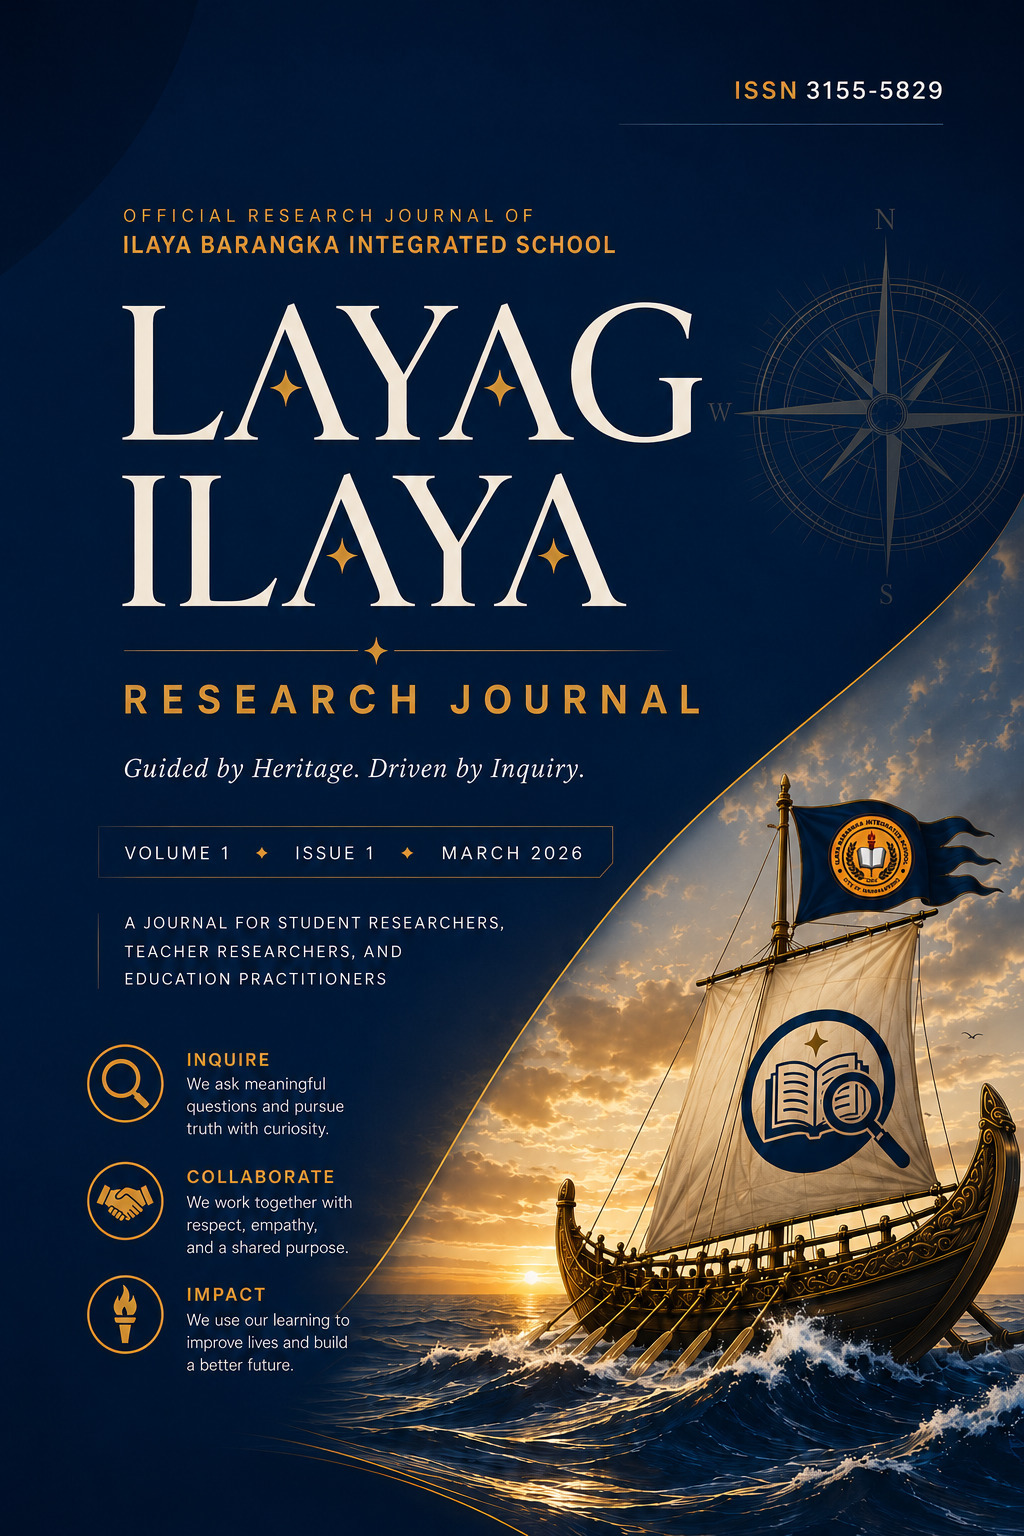
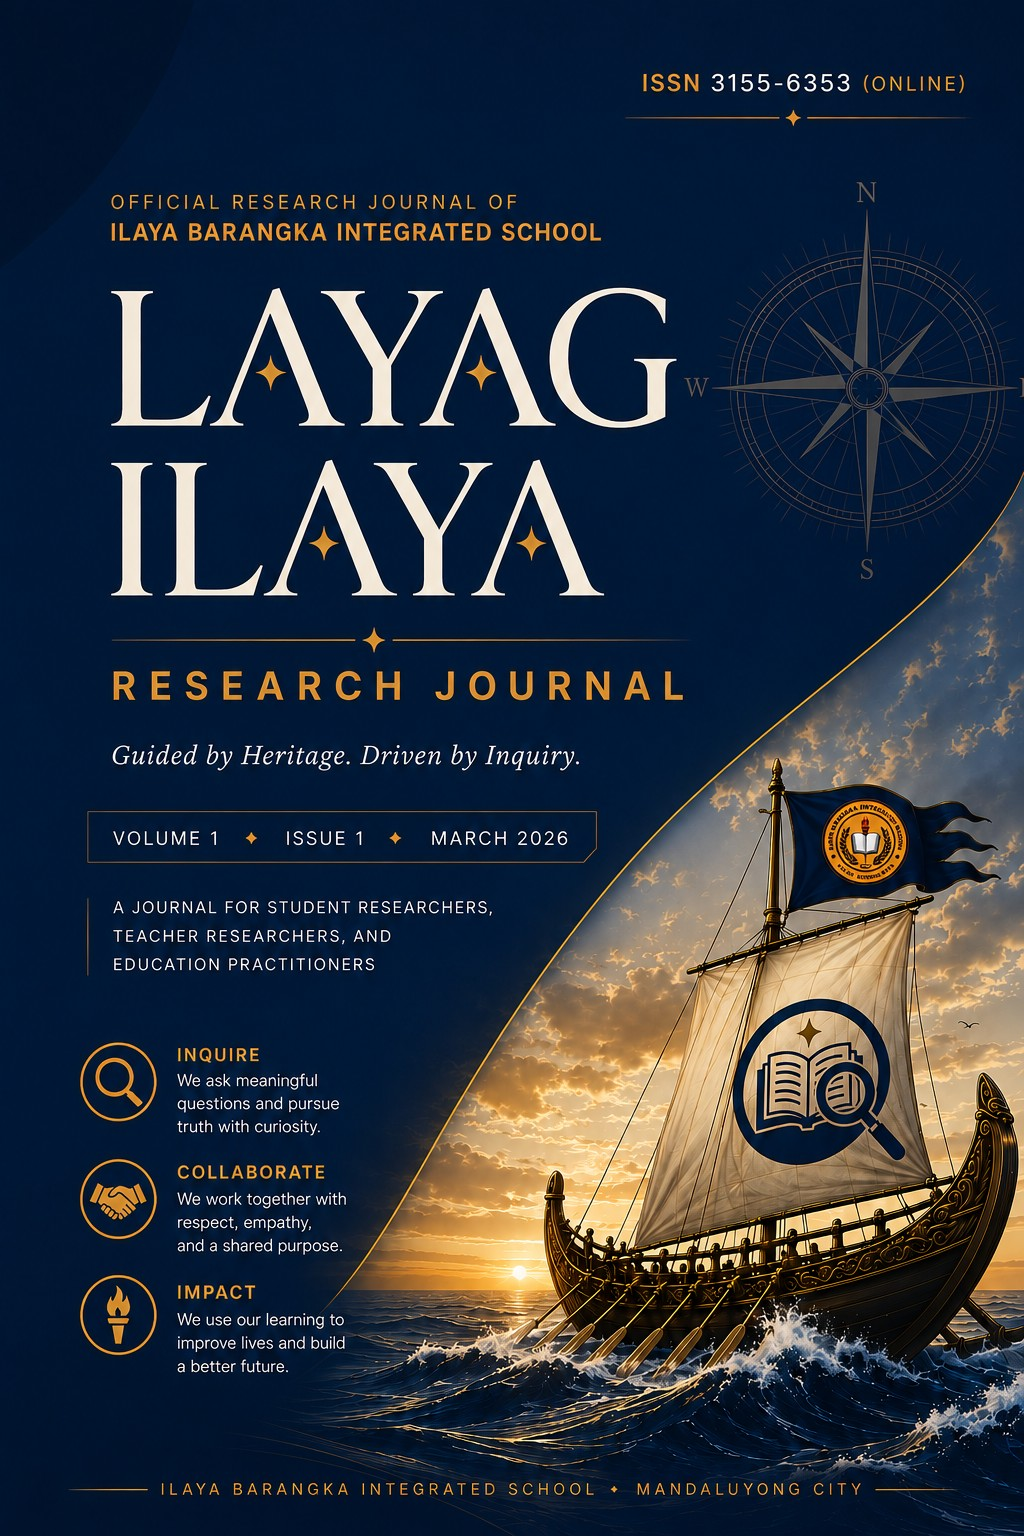
Add files via upload
Add online ISSN 3155-6353 and new cover

Changed region(s): [[0.0625, 0.125, 1.0, 1.0], [0.625, 0.0312, 0.9375, 0.0938]]

diff --git a/about/index.html b/about/index.html
@@ -10,6 +10,8 @@
 <link href="https://fonts.googleapis.com/css2?family=Lora:ital,wght@0,400;0,500;0,600;0,700;1,400;1,500&amp;family=Carlito:wght@400;700&amp;display=swap" rel="stylesheet">
 <link rel="stylesheet" href="../assets/css/site.css">
 <link rel="icon" href="../assets/img/logo.png">
+<meta name="citation_issn" content="3155-6353">
+<meta name="citation_issn" content="3155-5829">
 </head>
 <body>
 <a class="skip-link" href="#main">Skip to content</a>
@@ -126,7 +128,7 @@
     <h2>Publication Information</h2>
     <div class="pubinfo-grid"><div class="pubinfo-field"><div class="lab">Publisher</div><div class="val">Ilaya Barangka Integrated School (IBIS)</div></div><div class="pubinfo-field"><div class="lab">School address</div><div class="val">37 Lion's Road, Barangka Ilaya, Mandaluyong City, 1550 Metro Manila</div></div><div class="pubinfo-field"><div class="lab">Publication frequency</div><div class="val">Annual (one volume per academic year)</div></div><div class="pubinfo-field"><div class="lab">Language</div><div class="val">English</div></div><div class="pubinfo-field"><div class="lab">Format</div><div class="val">Print (ring-bound), 44 pages</div></div><div class="pubinfo-field"><div class="lab">Cover price</div><div class="val">Not for sale — institutional circulation</div></div></div>
     <div class="note-box mt-2">Issued and confirmed by the National Library of the Philippines.</div>
-    <p class="mt-2"><strong>How to cite this issue:</strong> Layag Ilaya Research Journal, Vol. 1, Issue 1 (March 2026). Ilaya Barangka Integrated School, Mandaluyong City. ISSN 3155-5829.</p>
+    <p class="mt-2"><strong>How to cite this issue:</strong> Layag Ilaya Research Journal, Vol. 1, Issue 1 (March 2026). Ilaya Barangka Integrated School, Mandaluyong City. ISSN 3155-5829 (Print), 3155-6353 (Online).</p>
     <h3 class="mt-2" style="font-size:1.05rem;">Article Identifier System</h3>
     <p>Every article in this journal is assigned a unique identifier for citation and archiving:</p>
     <div class="aid-scheme"><div class="aid-part"><span class="code">LIRJ</span><span class="cap">Journal code</span></div><div class="aid-part"><span class="code">2026</span><span class="cap">Publication year</span></div><div class="aid-part"><span class="code">V1I1</span><span class="cap">Volume &amp; issue</span></div><div class="aid-part"><span class="code">001</span><span class="cap">Article number</span></div></div>
@@ -179,7 +181,7 @@
     </div>
     <div class="footer-bottom">
       <span>&copy; 2026 Ilaya Barangka Integrated School. All rights reserved.</span>
-      <span>ISSN 3155-5829 (Print) &middot; Volume 1 · Issue 1 · March 2026</span>
+      <span>ISSN 3155-5829 (Print) &middot; ISSN 3155-6353 (Online) &middot; Volume 1 · Issue 1 · March 2026</span>
     </div>
   </div>
 </footer>

diff --git a/submissions/index.html b/submissions/index.html
@@ -10,6 +10,8 @@
 <link href="https://fonts.googleapis.com/css2?family=Lora:ital,wght@0,400;0,500;0,600;0,700;1,400;1,500&amp;family=Carlito:wght@400;700&amp;display=swap" rel="stylesheet">
 <link rel="stylesheet" href="../assets/css/site.css">
 <link rel="icon" href="../assets/img/logo.png">
+<meta name="citation_issn" content="3155-6353">
+<meta name="citation_issn" content="3155-5829">
 </head>
 <body>
 <a class="skip-link" href="#main">Skip to content</a>
@@ -53,7 +55,7 @@
   <div class="pubinfo-grid mt-2">
     <div class="pubinfo-field"><div class="lab">Publication Model</div><div class="val">Open Access</div></div>
     <div class="pubinfo-field"><div class="lab">Review Model</div><div class="val">Double-Blind Peer Review</div></div>
-    <div class="pubinfo-field"><div class="lab">ISSN (Print / Online)</div><div class="val">3155-5829</div></div>
+    <div class="pubinfo-field"><div class="lab">ISSN (Print / Online)</div><div class="val">3155-5829 (Print) &middot; 3155-6353 (Online)</div></div>
     <div class="pubinfo-field"><div class="lab">Publication Frequency</div><div class="val">Annual</div></div>
   </div>
 
@@ -145,7 +147,7 @@
     </div>
     <div class="footer-bottom">
       <span>&copy; 2026 Ilaya Barangka Integrated School. All rights reserved.</span>
-      <span>ISSN 3155-5829 (Print) &middot; Volume 1 &middot; Issue 1 &middot; March 2026</span>
+      <span>ISSN 3155-5829 (Print) &middot; ISSN 3155-6353 (Online) &middot; Volume 1 &middot; Issue 1 &middot; March 2026</span>
     </div>
   </div>
 </footer>

diff --git a/issue/vol-1-issue-1/index.html b/issue/vol-1-issue-1/index.html
@@ -10,6 +10,8 @@
 <link href="https://fonts.googleapis.com/css2?family=Lora:ital,wght@0,400;0,500;0,600;0,700;1,400;1,500&amp;family=Carlito:wght@400;700&amp;display=swap" rel="stylesheet">
 <link rel="stylesheet" href="../../assets/css/site.css">
 <link rel="icon" href="../../assets/img/logo.png">
+<meta name="citation_issn" content="3155-6353">
+<meta name="citation_issn" content="3155-5829">
 </head>
 <body>
 <a class="skip-link" href="#main">Skip to content</a>
@@ -53,7 +55,7 @@
     <h1>Current Issue</h1>
     <p class="max-prose">Nine Grade 12 research studies, gathered into three parts &mdash; from environmental sustainability to campus well-being. Every study below was defended before an external evaluation panel on Research Defense Day.</p>
     <div class="issue-meta-row">
-      <span>ISSN 3155-5829 (Print)</span>
+      <span>ISSN 3155-5829 (Print) &middot; ISSN 3155-6353 (Online)</span>
       <span>&middot;</span>
       <span>Theme: Navigating Inquiry, Innovation, and Resilience</span>
     </div>
@@ -183,7 +185,7 @@
     </div>
     <div class="footer-bottom">
       <span>&copy; 2026 Ilaya Barangka Integrated School. All rights reserved.</span>
-      <span>ISSN 3155-5829 (Print) &middot; Volume 1 · Issue 1 · March 2026</span>
+      <span>ISSN 3155-5829 (Print) &middot; ISSN 3155-6353 (Online) &middot; Volume 1 · Issue 1 · March 2026</span>
     </div>
   </div>
 </footer>

diff --git a/index.html b/index.html
@@ -10,6 +10,8 @@
 <link href="https://fonts.googleapis.com/css2?family=Lora:ital,wght@0,400;0,500;0,600;0,700;1,400;1,500&amp;family=Carlito:wght@400;700&amp;display=swap" rel="stylesheet">
 <link rel="stylesheet" href="./assets/css/site.css">
 <link rel="icon" href="./assets/img/logo.png">
+<meta name="citation_issn" content="3155-6353">
+<meta name="citation_issn" content="3155-5829">
 </head>
 <body>
 <a class="skip-link" href="#main">Skip to content</a>
@@ -88,7 +90,7 @@
       <div class="card" style="background:var(--cream);border:none;">
         <div class="card-eyebrow">Theme</div>
         <h3 style="font-size:1.4rem;">Navigating Inquiry, Innovation, and Resilience</h3>
-        <p>Volume 1 · Issue 1 · March 2026<br>ISSN 3155-5829 (Print)</p>
+        <p>Volume 1 · Issue 1 · March 2026<br>ISSN 3155-5829 (Print) &middot; ISSN 3155-6353 (Online)</p>
       </div>
     </div>
   </div>
@@ -170,7 +172,7 @@
     </div>
     <div class="footer-bottom">
       <span>&copy; 2026 Ilaya Barangka Integrated School. All rights reserved.</span>
-      <span>ISSN 3155-5829 (Print) &middot; Volume 1 · Issue 1 · March 2026</span>
+      <span>ISSN 3155-5829 (Print) &middot; ISSN 3155-6353 (Online) &middot; Volume 1 · Issue 1 · March 2026</span>
     </div>
   </div>
 </footer>

diff --git a/articles/against-the-clock/index.html b/articles/against-the-clock/index.html
@@ -10,6 +10,8 @@
 <link href="https://fonts.googleapis.com/css2?family=Lora:ital,wght@0,400;0,500;0,600;0,700;1,400;1,500&amp;family=Carlito:wght@400;700&amp;display=swap" rel="stylesheet">
 <link rel="stylesheet" href="../../assets/css/site.css">
 <link rel="icon" href="../../assets/img/logo.png">
+<meta name="citation_issn" content="3155-6353">
+<meta name="citation_issn" content="3155-5829">
 </head>
 <body>
 <a class="skip-link" href="#main">Skip to content</a>
@@ -161,7 +163,7 @@
     </div>
     <div class="footer-bottom">
       <span>&copy; 2026 Ilaya Barangka Integrated School. All rights reserved.</span>
-      <span>ISSN 3155-5829 (Print, provisional) &middot; Volume 1 · Issue 1 · March 2026</span>
+      <span>ISSN 3155-5829 (Print, provisional) &middot; ISSN 3155-6353 (Online, provisional) &middot; Volume 1 · Issue 1 · March 2026</span>
     </div>
   </div>
 </footer>

diff --git a/articles/building-to-last/index.html b/articles/building-to-last/index.html
@@ -10,6 +10,8 @@
 <link href="https://fonts.googleapis.com/css2?family=Lora:ital,wght@0,400;0,500;0,600;0,700;1,400;1,500&amp;family=Carlito:wght@400;700&amp;display=swap" rel="stylesheet">
 <link rel="stylesheet" href="../../assets/css/site.css">
 <link rel="icon" href="../../assets/img/logo.png">
+<meta name="citation_issn" content="3155-6353">
+<meta name="citation_issn" content="3155-5829">
 </head>
 <body>
 <a class="skip-link" href="#main">Skip to content</a>
@@ -159,7 +161,7 @@
     </div>
     <div class="footer-bottom">
       <span>&copy; 2026 Ilaya Barangka Integrated School. All rights reserved.</span>
-      <span>ISSN 3155-5829 (Print, provisional) &middot; Volume 1 · Issue 1 · March 2026</span>
+      <span>ISSN 3155-5829 (Print, provisional) &middot; ISSN 3155-6353 (Online, provisional) &middot; Volume 1 · Issue 1 · March 2026</span>
     </div>
   </div>
 </footer>

diff --git a/articles/catching-the-tide/index.html b/articles/catching-the-tide/index.html
@@ -10,6 +10,8 @@
 <link href="https://fonts.googleapis.com/css2?family=Lora:ital,wght@0,400;0,500;0,600;0,700;1,400;1,500&amp;family=Carlito:wght@400;700&amp;display=swap" rel="stylesheet">
 <link rel="stylesheet" href="../../assets/css/site.css">
 <link rel="icon" href="../../assets/img/logo.png">
+<meta name="citation_issn" content="3155-6353">
+<meta name="citation_issn" content="3155-5829">
 </head>
 <body>
 <a class="skip-link" href="#main">Skip to content</a>
@@ -178,7 +180,7 @@
     </div>
     <div class="footer-bottom">
       <span>&copy; 2026 Ilaya Barangka Integrated School. All rights reserved.</span>
-      <span>ISSN 3155-5829 (Print, provisional) &middot; Volume 1 · Issue 1 · March 2026</span>
+      <span>ISSN 3155-5829 (Print, provisional) &middot; ISSN 3155-6353 (Online, provisional) &middot; Volume 1 · Issue 1 · March 2026</span>
     </div>
   </div>
 </footer>

diff --git a/articles/danger-zones/index.html b/articles/danger-zones/index.html
@@ -10,6 +10,8 @@
 <link href="https://fonts.googleapis.com/css2?family=Lora:ital,wght@0,400;0,500;0,600;0,700;1,400;1,500&amp;family=Carlito:wght@400;700&amp;display=swap" rel="stylesheet">
 <link rel="stylesheet" href="../../assets/css/site.css">
 <link rel="icon" href="../../assets/img/logo.png">
+<meta name="citation_issn" content="3155-6353">
+<meta name="citation_issn" content="3155-5829">
 </head>
 <body>
 <a class="skip-link" href="#main">Skip to content</a>
@@ -161,7 +163,7 @@
     </div>
     <div class="footer-bottom">
       <span>&copy; 2026 Ilaya Barangka Integrated School. All rights reserved.</span>
-      <span>ISSN 3155-5829 (Print, provisional) &middot; Volume 1 · Issue 1 · March 2026</span>
+      <span>ISSN 3155-5829 (Print, provisional) &middot; ISSN 3155-6353 (Online, provisional) &middot; Volume 1 · Issue 1 · March 2026</span>
     </div>
   </div>
 </footer>

diff --git a/articles/mapping-the-unseen/index.html b/articles/mapping-the-unseen/index.html
@@ -10,6 +10,8 @@
 <link href="https://fonts.googleapis.com/css2?family=Lora:ital,wght@0,400;0,500;0,600;0,700;1,400;1,500&amp;family=Carlito:wght@400;700&amp;display=swap" rel="stylesheet">
 <link rel="stylesheet" href="../../assets/css/site.css">
 <link rel="icon" href="../../assets/img/logo.png">
+<meta name="citation_issn" content="3155-6353">
+<meta name="citation_issn" content="3155-5829">
 </head>
 <body>
 <a class="skip-link" href="#main">Skip to content</a>
@@ -159,7 +161,7 @@
     </div>
     <div class="footer-bottom">
       <span>&copy; 2026 Ilaya Barangka Integrated School. All rights reserved.</span>
-      <span>ISSN 3155-5829 (Print, provisional) &middot; Volume 1 · Issue 1 · March 2026</span>
+      <span>ISSN 3155-5829 (Print, provisional) &middot; ISSN 3155-6353 (Online, provisional) &middot; Volume 1 · Issue 1 · March 2026</span>
     </div>
   </div>
 </footer>

diff --git a/articles/safe-grounds/index.html b/articles/safe-grounds/index.html
@@ -10,6 +10,8 @@
 <link href="https://fonts.googleapis.com/css2?family=Lora:ital,wght@0,400;0,500;0,600;0,700;1,400;1,500&amp;family=Carlito:wght@400;700&amp;display=swap" rel="stylesheet">
 <link rel="stylesheet" href="../../assets/css/site.css">
 <link rel="icon" href="../../assets/img/logo.png">
+<meta name="citation_issn" content="3155-6353">
+<meta name="citation_issn" content="3155-5829">
 </head>
 <body>
 <a class="skip-link" href="#main">Skip to content</a>
@@ -177,7 +179,7 @@
     </div>
     <div class="footer-bottom">
       <span>&copy; 2026 Ilaya Barangka Integrated School. All rights reserved.</span>
-      <span>ISSN 3155-5829 (Print, provisional) &middot; Volume 1 · Issue 1 · March 2026</span>
+      <span>ISSN 3155-5829 (Print, provisional) &middot; ISSN 3155-6353 (Online, provisional) &middot; Volume 1 · Issue 1 · March 2026</span>
     </div>
   </div>
 </footer>

diff --git a/articles/the-clock-is-ticking/index.html b/articles/the-clock-is-ticking/index.html
@@ -10,6 +10,8 @@
 <link href="https://fonts.googleapis.com/css2?family=Lora:ital,wght@0,400;0,500;0,600;0,700;1,400;1,500&amp;family=Carlito:wght@400;700&amp;display=swap" rel="stylesheet">
 <link rel="stylesheet" href="../../assets/css/site.css">
 <link rel="icon" href="../../assets/img/logo.png">
+<meta name="citation_issn" content="3155-6353">
+<meta name="citation_issn" content="3155-5829">
 </head>
 <body>
 <a class="skip-link" href="#main">Skip to content</a>
@@ -161,7 +163,7 @@
     </div>
     <div class="footer-bottom">
       <span>&copy; 2026 Ilaya Barangka Integrated School. All rights reserved.</span>
-      <span>ISSN 3155-5829 (Print, provisional) &middot; Volume 1 · Issue 1 · March 2026</span>
+      <span>ISSN 3155-5829 (Print, provisional) &middot; ISSN 3155-6353 (Online, provisional) &middot; Volume 1 · Issue 1 · March 2026</span>
     </div>
   </div>
 </footer>

diff --git a/articles/the-comfort-room-divide/index.html b/articles/the-comfort-room-divide/index.html
@@ -10,6 +10,8 @@
 <link href="https://fonts.googleapis.com/css2?family=Lora:ital,wght@0,400;0,500;0,600;0,700;1,400;1,500&amp;family=Carlito:wght@400;700&amp;display=swap" rel="stylesheet">
 <link rel="stylesheet" href="../../assets/css/site.css">
 <link rel="icon" href="../../assets/img/logo.png">
+<meta name="citation_issn" content="3155-6353">
+<meta name="citation_issn" content="3155-5829">
 </head>
 <body>
 <a class="skip-link" href="#main">Skip to content</a>
@@ -169,7 +171,7 @@
     </div>
     <div class="footer-bottom">
       <span>&copy; 2026 Ilaya Barangka Integrated School. All rights reserved.</span>
-      <span>ISSN 3155-5829 (Print, provisional) &middot; Volume 1 · Issue 1 · March 2026</span>
+      <span>ISSN 3155-5829 (Print, provisional) &middot; ISSN 3155-6353 (Online, provisional) &middot; Volume 1 · Issue 1 · March 2026</span>
     </div>
   </div>
 </footer>
